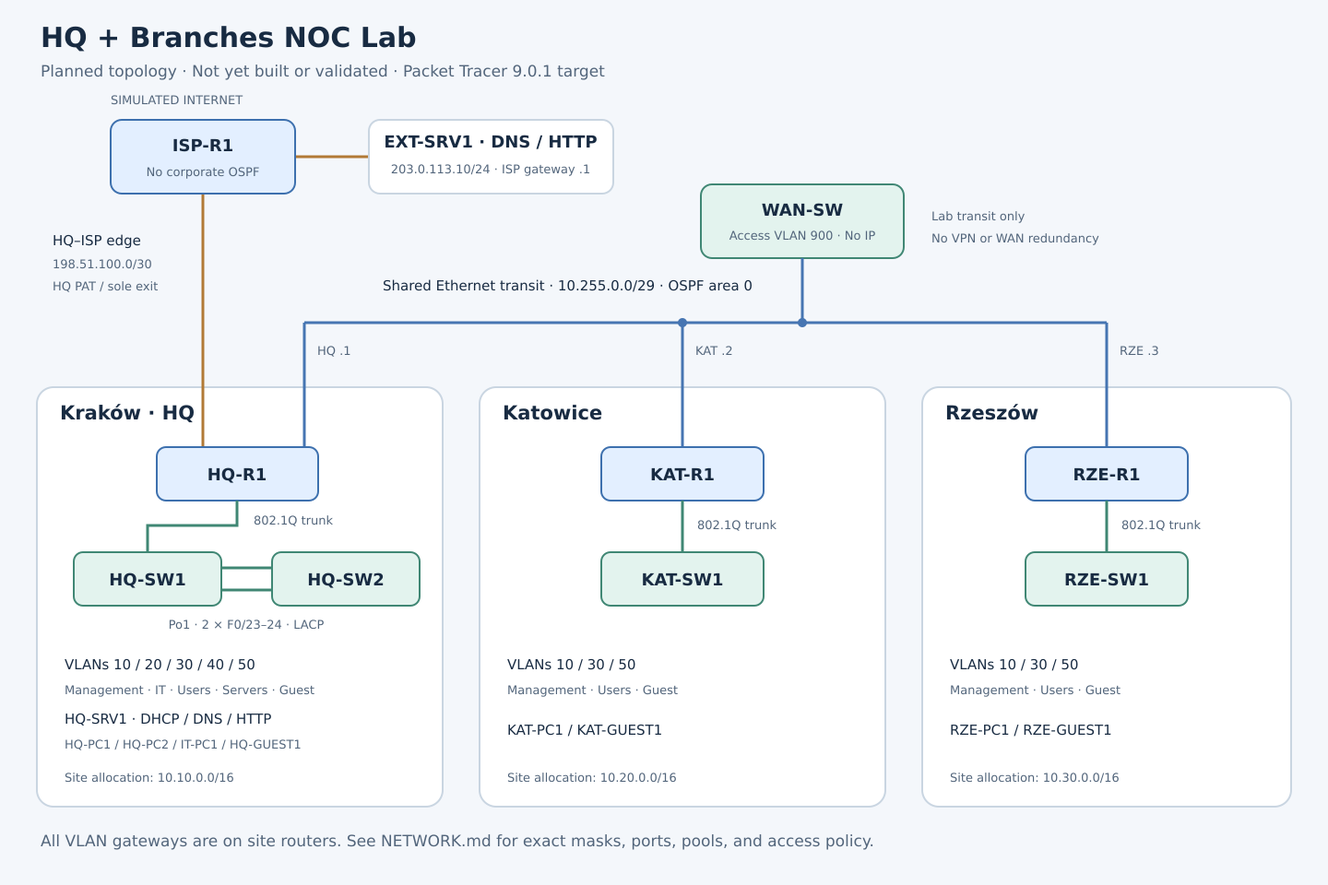
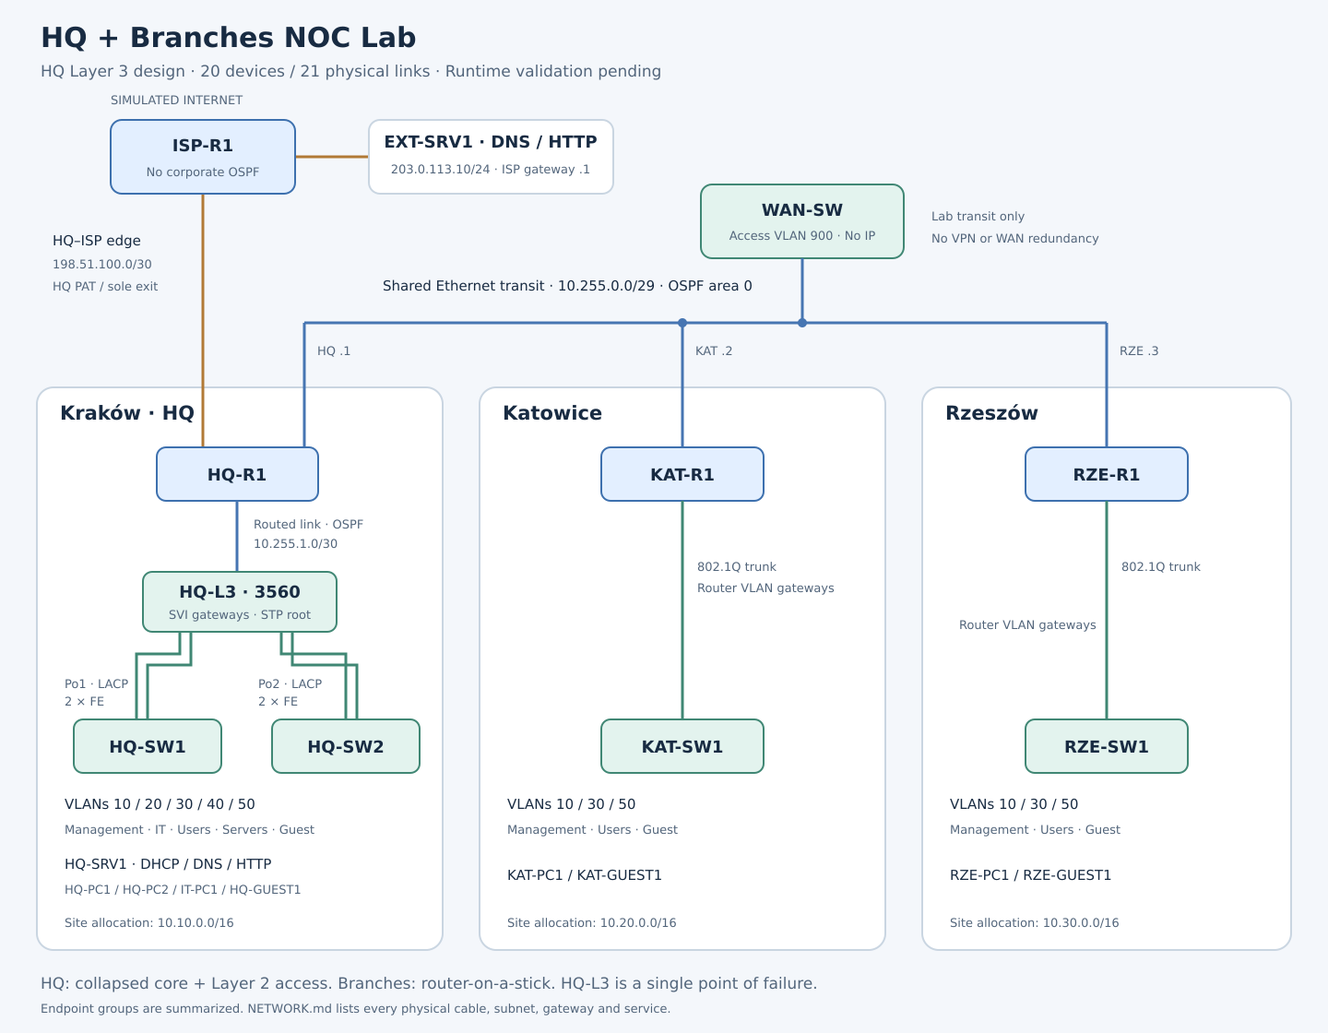
Design HQ Layer 3 collapsed core and revise validation

diff --git a/docs/NETWORK.md b/docs/NETWORK.md
@@ -1,14 +1,16 @@
 # Network build sheet
 
-**State:** working design, not implemented or tested. This is the active source for topology, addressing, and traffic intent. Target device models and port labels require confirmation in Packet Tracer 9.0.1 before configuration.
+**State:** accepted HQ Layer 3 revision; assembly and runtime validation pending. This is the active source for topology, addressing, and traffic intent. HQ-L3 model, ports, and command support require confirmation in Packet Tracer 9.0.1; earlier access-layout screenshots do not validate this revision.
 
 ## Design in brief
 
 Kraków HQ supports 44 staff and hosts IT and shared services; Katowice supports 16 staff and Rzeszów 12. Use representative PCs instead of modelling every employee. Segment by trust and function: Management, IT, Users, Servers, and Guest at HQ; Management, Users, and Guest at each branch.
 
-Each site router provides VLAN gateways through one 802.1Q trunk (router-on-a-stick). Three routers share an Ethernet transit subnet for OSPF area 0. `WAN-SW` represents the lab transit medium, not a managed corporate access switch or a real carrier/VPN. HQ provides the sole Internet exit. This avoids WAN modules and keeps the build uniform.
+HQ uses a two-tier collapsed core: `HQ-L3` combines distribution/core functions and supplies VLAN gateways through switch virtual interfaces (SVIs). `HQ-SW1` and `HQ-SW2` provide Layer 2 access. `HQ-R1` connects to HQ-L3 over a routed Ethernet link and handles WAN routing and NAT/PAT. At each branch, the router still provides VLAN gateways through one 802.1Q trunk (router-on-a-stick). [Cisco campus design guide](https://www.cisco.com/c/en/us/td/docs/solutions/CVD/Campus/cisco-campus-lan-wlan-design-guide.html)
 
-Two HQ switches use one two-member LACP EtherChannel. Make `HQ-SW1` the STP root and `HQ-SW2` secondary for HQ VLANs. Test loss of one member link; do not claim switch, router, or WAN failover. DHCP snooping, DAI, and further Layer 2 protections are optional follow-ups after the core baseline and simulator support checks.
+The three site routers retain their shared Ethernet transit for OSPF area 0. `WAN-SW` is an abstraction of Layer 2 transport between sites; only router transit ports share VLAN 900. Corporate client VLANs remain local to each site. No provider core, MPLS, VPN, or WAN redundancy is implemented. HQ-R1 remains the sole simulated Internet exit.
+
+Each HQ access switch has its own two-member LACP trunk to HQ-L3: Po1 serves HQ-SW1 and Po2 serves HQ-SW2. There is no direct HQ-SW1–HQ-SW2 cable. Make HQ-L3 the STP root and HQ-SW1 secondary for HQ VLANs. Test loss of one member in each bundle. One HQ-L3 is a single point of failure; a secondary STP root does not provide a backup VLAN gateway. The FastEthernet bundles are chosen for simulator practice, with no throughput claim. Additional Layer 2 protections remain optional after the core baseline.
 
 ![Planned topology, not validation evidence](topology.png)
 
@@ -16,22 +18,26 @@ Two HQ switches use one two-member LACP EtherChannel. Make `HQ-SW1` the STP root
 
 | Names | Target model | Role |
 |---|---|---|
-| `HQ-R1`, `KAT-R1`, `RZE-R1` | 2911 | Site gateways and OSPF; HQ also runs NAT/PAT |
+| `HQ-L3` | 3560-24PS | HQ collapsed core, SVI gateways, DHCP relay, inter-VLAN ACLs and OSPF |
+| `HQ-R1` | 2911 | HQ WAN/Internet edge, OSPF and NAT/PAT |
+| `KAT-R1`, `RZE-R1` | 2911 | Branch VLAN gateways, DHCP relay, ACLs and OSPF |
 | `ISP-R1` | 2911 | Simulated ISP, outside corporate OSPF |
 | `HQ-SW1`, `HQ-SW2`, `KAT-SW1`, `RZE-SW1` | 2960-24TT | Corporate Layer 2 access switches |
 | `WAN-SW` | 2960-24TT | Shared transit, access VLAN 900, no management IP |
 | `HQ-SRV1`, `EXT-SRV1` | Server-PT | Internal DHCP/DNS/HTTP; external DNS/HTTP respectively |
 | `HQ-PC1`, `HQ-PC2`, `IT-PC1`, `HQ-GUEST1`, `KAT-PC1`, `KAT-GUEST1`, `RZE-PC1`, `RZE-GUEST1` | PC-PT | Eight representative clients |
 
-Total: **19 devices**. Cisco documents three onboard GE ports on the physical 2911; this supports the model choice but does not verify Packet Tracer behavior. [Cisco hardware guide](https://www.cisco.com/c/en/us/td/docs/routers/access/2900/hardware/installation/guide/Hardware_Installation_Guide/Overview.html)
+Total: **20 devices and 21 physical links**. Logical port-channels do not add physical links. Packet Tracer lists 3560-24PS as a multilayer switch; check `G0/1`, `F0/1–4`, IP routing, SVIs, OSPF, relay, ACL and LACP commands on the installed model before configuration. This documentation check is not a simulator test. [Packet Tracer switch guide](https://tutorials.ptnetacad.net/help/default/config_switches.htm)
 
 | Device / port | Peer / port | Cable | Intended use |
 |---|---|---|---|
-| HQ-R1 G0/0 | HQ-SW1 G0/1 | Copper Straight-Through | HQ VLAN trunk |
+| HQ-R1 G0/0 | HQ-L3 G0/1 | Copper Straight-Through | Routed /30 link; no VLAN trunk |
 | KAT-R1 G0/0 | KAT-SW1 G0/1 | Copper Straight-Through | Katowice VLAN trunk |
 | RZE-R1 G0/0 | RZE-SW1 G0/1 | Copper Straight-Through | Rzeszów VLAN trunk |
-| HQ-SW1 F0/23 | HQ-SW2 F0/23 | Copper Cross-Over | Port-channel 1 member |
-| HQ-SW1 F0/24 | HQ-SW2 F0/24 | Copper Cross-Over | Port-channel 1 member |
+| HQ-L3 F0/1 | HQ-SW1 F0/23 | Copper Cross-Over | Po1 member 1 |
+| HQ-L3 F0/2 | HQ-SW1 F0/24 | Copper Cross-Over | Po1 member 2 |
+| HQ-L3 F0/3 | HQ-SW2 F0/23 | Copper Cross-Over | Po2 member 1 |
+| HQ-L3 F0/4 | HQ-SW2 F0/24 | Copper Cross-Over | Po2 member 2 |
 | HQ-R1 G0/1 | WAN-SW F0/1 | Copper Straight-Through | OSPF transit, access VLAN 900 |
 | KAT-R1 G0/1 | WAN-SW F0/2 | Copper Straight-Through | OSPF transit, access VLAN 900 |
 | RZE-R1 G0/1 | WAN-SW F0/3 | Copper Straight-Through | OSPF transit, access VLAN 900 |
@@ -54,11 +60,11 @@ Select the cable type manually under Connections, then choose the exact ports in
 
 ## VLANs and addressing
 
-VLAN IDs repeat across sites; their IP subnets do not. Corporate site prefixes are `10.10.0.0/16` (HQ), `10.20.0.0/16` (KAT), and `10.30.0.0/16` (RZE). These are allocation containers, not interface masks or required OSPF summaries. VLAN gateway `.1` resides on router subinterface `G0/0.<VLAN>`.
+VLAN IDs repeat across sites; their IP subnets do not. Corporate site prefixes are `10.10.0.0/16` (HQ), `10.20.0.0/16` (KAT), and `10.30.0.0/16` (RZE). These are allocation containers, not interface masks or required OSPF summaries. HQ gateway `.1` resides on `HQ-L3 interface Vlan<VLAN>`; branch gateway `.1` resides on router subinterface `G0/0.<VLAN>`. Client addresses, masks, gateway addresses and DHCP pools remain unchanged by the HQ revision.
 
 | Site | VLAN / name | Subnet | Gateway | Assignment |
 |---|---|---|---|---|
-| HQ | 10 MGMT | 10.10.10.0/28 | 10.10.10.1 | SW1 .2; SW2 .3, static management SVIs |
+| HQ | 10 MGMT | 10.10.10.0/28 | 10.10.10.1 | HQ-L3 .1; SW1 .2; SW2 .3, static SVIs |
 | HQ | 20 IT | 10.10.20.0/28 | 10.10.20.1 | IT-PC1 .10, static |
 | HQ | 30 USERS | 10.10.30.0/26 | 10.10.30.1 | DHCP .10–.62: 53 leases |
 | HQ | 40 SERVERS | 10.10.40.0/28 | 10.10.40.1 | HQ-SRV1 .10, static |
@@ -70,11 +76,12 @@ VLAN IDs repeat across sites; their IP subnets do not. Corporate site prefixes a
 | RZE | 30 USERS | 10.30.30.0/27 | 10.30.30.1 | DHCP .10–.30: 21 leases |
 | RZE | 50 GUEST | 10.30.50.0/28 | 10.30.50.1 | DHCP .2–.14: 13 leases |
 
-Use VLAN 999 as an unused native/parking VLAN with no IP interface or clients. HQ trunks allow 10,20,30,40,50,999; branch trunks allow 10,30,50,999. Match native VLAN 999 at both ends, including router trunks. Shut unused access ports. Management means device administration, not company leadership.
+Use VLAN 999 as an unused native/parking VLAN with no IP interface or clients. HQ Po1 and Po2 allow 10,20,30,40,50,999; branch trunks allow 10,30,50,999. Match native VLAN 999 at both ends, including branch router trunks. Configure LACP `mode active` and consistent trunk settings on each bundle and its members; use group 1 at both Po1 ends and group 2 at both Po2 ends. Check the 3560 trunk-encapsulation syntax with CLI help before forcing trunk mode. Shut unused access ports, including the now-unused HQ-SW1 G0/1. Management means device administration, not company leadership.
 
 | Network | Subnet | Addresses |
 |---|---|---|
 | Shared OSPF transit | 10.255.0.0/29 | HQ G0/1 .1; KAT G0/1 .2; RZE G0/1 .3 |
+| HQ core–edge | 10.255.1.0/30 | HQ-R1 G0/0 .1; HQ-L3 G0/1 .2 |
 | HQ–ISP | 198.51.100.0/30 | ISP G0/0 .1; HQ G0/2 .2 |
 | External services | 203.0.113.0/24 | ISP G0/1 .1; EXT-SRV1 .10, gateway .1 |
 
@@ -82,16 +89,25 @@ The two external ranges are documentation addresses used only inside the simulat
 
 ## Routing and services
 
-- OSPF process 1, area 0; explicit router IDs `10.255.255.1` (HQ), `.2` (KAT), `.3` (RZE). These are identifiers, not assigned interface addresses. Advertise the listed corporate VLAN networks and transit subnet. Make all interfaces passive except G0/1. Keep ISP and external networks outside corporate OSPF.
-- HQ has a default route via `198.51.100.1` and originates that default into OSPF while it exists. Branch Internet traffic then exits HQ. The shared transit permits direct branch-to-branch routing; access policy still applies at each site.
-- HQ PAT overloads G0/2. G0/1 and the routed HQ client VLAN interfaces are inside-facing. A NAT source list selects addresses for translation; it does not replace traffic-filtering ACLs. Do not publish internal services with static translations.
-- HQ-SRV1 supplies six DHCP pools from the table: three Users and three Guest pools. Configure pool start, mask, gateway, DNS, and lease count. Relay those six VLANs to `10.10.40.10`; Management, IT, and Servers use static addresses.
+- Enable `ip routing` on HQ-L3. Its G0/1 is a routed port (`no switchport`), addressed `10.255.1.2/30`; HQ-R1 G0/0 is `10.255.1.1/30`, with no VLAN subinterfaces. HQ-L3 supplies SVIs 10,20,30,40,50. An SVI needs its VLAN and an active forwarding member/trunk to become operational. [Cisco 3560 routing guide](https://www.cisco.com/c/en/us/td/docs/switches/lan/catalyst3560/software/release/15-0_1_se/configuration/guide/scg3560/swiprout.html)
+- OSPF process 1, area 0 runs on four devices. Router IDs are `10.255.255.1` (HQ-R1), `.2` (KAT-R1), `.3` (RZE-R1), and `.4` (HQ-L3); these are identifiers, not assigned interface addresses. HQ-L3 advertises HQ VLAN networks and the core–edge /30; HQ-R1 advertises the /30 and shared /29; each branch advertises its local VLANs and the /29. Use passive interfaces by default, with only the adjacencies listed below enabled. Keep ISP-R1 and the external networks outside corporate OSPF.
+- Use OSPF point-to-point network type on both ends of the HQ core–edge /30 after confirming command support. The shared /29 retains broadcast network type and DR/BDR election.
+- HQ-R1 has a default route via `198.51.100.1` and originates that default into OSPF while it exists. HQ-L3 and both branches learn it. HQ-R1 must learn all HQ VLAN routes back through HQ-L3. The shared transit still permits direct branch-to-branch routing; access policy applies at each site's routing boundary.
+- HQ-R1 PAT overloads G0/2 (outside); G0/0 toward HQ-L3 and G0/1 toward WAN-SW are inside. HQ-L3 performs no NAT. A NAT source list selects corporate client source prefixes for translation; it does not replace traffic-filtering ACLs. Do not publish internal services with static translations.
+- HQ-SRV1 supplies the same six DHCP pools: three Users and three Guest pools. Relay to `10.10.40.10` from HQ-L3 SVIs 30/50 and from branch router subinterfaces G0/0.30/G0/0.50. HQ-R1 has no client DHCP relay role. Management, IT, and Servers remain static.
 - Corporate clients use DNS `10.10.40.10`. Guests use external DNS `203.0.113.10`. Internal DNS has `intranet.lab.example → 10.10.40.10` and `www.lab.example → 203.0.113.10`; external DNS has only the latter. Serve HTTP on both servers. Use the same corporate DNS for IT-PC1.
-- Manage corporate routers through their VLAN 10 address and corporate switches through their management SVI; allow SSH from HQ IT only. ISP-R1 and WAN-SW are simulation infrastructure with no corporate remote-management requirement.
+- Manage HQ-L3 at `10.10.10.1`, HQ-SW1/SW2 at `.2`/`.3`, and HQ-R1 at `10.255.1.1`. Branch router/switch management stays at `10.20.10.1/.2` and `10.30.10.1/.2`. Apply TP-04 and TP-09 to all eight management targets, explicitly including HQ-R1's transit address. Restrict corporate device SSH to HQ IT. ISP-R1 and WAN-SW remain simulation infrastructure without corporate remote-management requirements.
+
+| OSPF device | Non-passive interfaces | Expected FULL neighbors |
+|---|---|---|
+| HQ-L3 | G0/1 | HQ-R1 (1) |
+| HQ-R1 | G0/0, G0/1 | HQ-L3, KAT-R1, RZE-R1 (3) |
+| KAT-R1 | G0/1 | HQ-R1, RZE-R1 (2) |
+| RZE-R1 | G0/1 | HQ-R1, KAT-R1 (2) |
 
 ## Traffic policy
 
-The existing TP identifiers are retained. Entries are requirements, not successful tests. Use DNS (UDP/TCP 53), HTTP (TCP 80), SSH (TCP 22), and ICMP as specified; confirm simulator behavior before writing final ACLs.
+The existing TP identifiers are retained. Entries are requirements, not successful tests. Use DNS (UDP/TCP 53), HTTP (TCP 80), SSH (TCP 22), and ICMP as specified; confirm simulator behavior before writing final ACLs. Enforce HQ inter-VLAN policy on HQ-L3 SVIs and branch policy on branch router subinterfaces; apply Internet-edge filtering on HQ-R1. In particular, HQ Users-to-Servers traffic is routed entirely on HQ-L3, so an ACL on HQ-R1 cannot enforce TP-01.
 
 | Rule | Source → destination | Required behavior |
 |---|---|---|
@@ -113,10 +129,10 @@ Permit the specific DHCP relay exchanges, OSPF control traffic, and replies need
 
 ## First Packet Tracer checkpoint
 
-1. Open Cisco Packet Tracer 9.0.1. Confirm 2911 and 2960-24TT availability and the port labels above; record differences here before using a substitute.
-2. Start with **HQ only: eight devices** — HQ-R1, HQ-SW1, HQ-SW2, HQ-SRV1, HQ-PC1, HQ-PC2, IT-PC1, and HQ-GUEST1. Set these display names and cable the eight HQ-only links from the tables. Display names identify devices on the canvas; IOS hostnames will be configured in Block 2.
-3. Save this partial build as `packet-tracer/HQ-Branches-NOC-Lab_working.pkt`, reopen it, and capture `docs/evidence/working_hq_topology.png` with readable names and ports. This is an interim layout review, not a completed B1 test. Use a new working filename if a previous working copy needs preserving.
-4. Add the two branches, WAN-SW, ISP-R1, and EXT-SRV1 using the same tables. The complete layout must have **19 devices and 19 links**, grouped as HQ, Katowice, Rzeszów, Transit, and Simulated Internet. Use English labels.
-5. In a fresh unconfigured topology, router ports may be administratively down and one parallel switch link may be STP-blocked; this is not yet a connectivity test. Record unexpected observations instead of changing the planned ports to make the indicators green.
-6. Save the complete layout as `packet-tracer/checkpoints/HQ-Branches-NOC-Lab_v01_physical-topology.pkt`. Close and reopen that exact file; check device names, ports, and both EtherChannel candidate links.
-7. Record **B1** in [Validation](VALIDATION.md) with the checkpoint name and an actual Packet Tracer screenshot. Then begin VLAN/trunk configuration. For each subsequent milestone, configure, test, save a new checkpoint, and export the matching device configurations.
+1. Save any current Packet Tracer session, then use **Save As** to create `packet-tracer/HQ-Branches-NOC-Lab_working_l3.pkt`. Preserve the earlier working file. Confirm 2911, 2960-24TT and 3560-24PS availability and exact port labels before substituting models.
+2. For an existing HQ layout, add **3560-24PS** as `HQ-L3`. Remove the old HQ-R1 G0/0–HQ-SW1 G0/1 cable and both direct HQ-SW1–HQ-SW2 cables. Build the five HQ infrastructure links in the table: one routed-link candidate to HQ-R1 and two pairs to the access switches. Keep the five endpoint cables. HQ now has **nine devices and ten links**; no direct access-switch link remains.
+3. Before configuring services, record `show version` and `show ip interface brief` on HQ-L3, plus a readable screenshot. Confirm the routing, SVI, routed-port, OSPF, relay, ACL and LACP command support in CLI help; parser support alone is not a successful feature test. Save the working file, reopen it, and retain `docs/evidence/working_hq_l3_topology.png` for an interim review. Use a new evidence name for later captures.
+4. Complete the branches, WAN-SW, ISP-R1 and EXT-SRV1 from the tables. The full layout has **20 devices and 21 links**, grouped as HQ, Katowice, Rzeszów, Transit and Simulated Internet. Existing branch and external links do not change. Display names identify devices on the canvas; configure IOS hostnames in Block 2.
+5. Before LACP configuration, STP may block one link in each HQ pair. Router interfaces may be administratively down. Record observations and any `no shutdown` changes; green indicators do not validate routing or EtherChannel.
+6. Save startup configurations on changed devices, then save the full layout as `packet-tracer/checkpoints/HQ-Branches-NOC-Lab_v01_physical-topology.pkt`. If v01 already exists, preserve it and use the next unused number with an HQ-L3 description. Close and reopen the exact new file; check all devices, ports and four LACP candidate links.
+7. Record **B1** in [Validation](VALIDATION.md) with the checkpoint name and actual screenshots. Then configure HQ VLANs/SVIs, both LACP trunks and the routed core–edge link; retain router-on-a-stick at the branches. For each subsequent milestone, configure, test, save a new checkpoint, and export the matching device configurations.

diff --git a/docs/VALIDATION.md b/docs/VALIDATION.md
@@ -6,20 +6,22 @@
 
 | ID | Check and method | Expected result | Actual / evidence |
 |---|---|---|---|
-| B1 | Open, save, and reopen v01; inspect devices and cables | 19 named devices, 19 links; actual models/ports match the build sheet | Not run / — |
-| B2 | `show vlan brief`, `show interfaces trunk`, gateway tests with temporary static client IPs | Correct access VLANs, allowed/native VLANs, and local gateways | Not run / — |
-| B3 | `show spanning-tree`, `show etherchannel summary`; disable one Po1 member, test HQ-PC2 → HQ gateway, then restore | HQ-SW1 root; two bundled members; gateway access survives a single member failure and restoration | Not run / — |
+| B1 | Save/reopen the first complete HQ-L3 checkpoint; inspect devices, ports and model support | 20 named devices, 21 physical links; HQ-L3 is 3560-24PS; four LACP candidate links and no direct HQ-SW1–HQ-SW2 link; exact model/port differences recorded | Not run / — |
+| B2 | `show vlan brief`, `show interfaces trunk`, `show ip interface brief`, `show ip route`; gateway and core–edge tests | HQ gateways on HQ-L3 SVIs; branch gateways on router subinterfaces; correct allowed/native VLANs; HQ-L3 G0/1 and HQ-R1 G0/0 use the /30 as routed interfaces, not a trunk | Not run / — |
+| B3 | `show spanning-tree`, `show etherchannel summary`; independently disable/restore one Po1 member and one Po2 member | HQ-L3 root; two bundled members per channel; HQ-PC1 → 10.10.30.1 survives Po1 member loss, HQ-PC2 → 10.10.30.1 survives Po2 member loss; both bundles fully restored | Not run / — |
 | B4 | SSH from IT-PC1 to every corporate management IP | Successful SSH after routed reachability exists; Telnet disabled | Not run / — |
-| B5 | `show ip ospf neighbor`, `show ip route`; test HQ/branch paths | Three routers share transit; each has two FULL neighbors, remote VLAN routes, branches have HQ-originated default | Not run / — |
-| B6 | Renew every DHCP client and inspect address, mask, gateway, DNS | Leases fit the six pools; corporate and guest DNS settings differ correctly | Not run / — |
+| B5 | `show ip ospf neighbor`, `show ip ospf interface`, `show ip route`; test HQ/branch paths | HQ-R1 has 3 FULL neighbors, HQ-L3 has 1, each branch has 2; /29 broadcast and /30 point-to-point types match design; HQ-R1 learns HQ VLAN routes through HQ-L3; HQ-L3 and branches learn the HQ-R1-originated default | Not run / — |
+| B6 | Renew every DHCP client; inspect address/mask/gateway/DNS and relay placement | Six pools work; HQ relay on HQ-L3 SVIs 30/50 and branch relay on G0/0.30/.50; no client relay on HQ-R1; corporate/guest DNS settings match design | Not run / — |
 | B7 | Resolve and browse internal/external names from applicable clients | Corporate clients reach intranet and external web; guests resolve external web through external DNS | Not run / — |
-| B8 | Generate external HTTP/ICMP; `show ip nat translations`, `show ip nat statistics` | HQ and both branch client sources translate to 198.51.100.2 | Not run / — |
+| B8 | Generate external HTTP/ICMP; inspect HQ-R1 `show ip nat translations`, `show ip nat statistics` and return routes | HQ traffic through HQ-L3 and both branches translate to 198.51.100.2; HQ-R1 G0/0 and G0/1 inside, G0/2 outside; no NAT on HQ-L3 | Not run / — |
 | B9 | Test TP-01–TP-13 using the coverage table below | All required permits and denies have evidence and an explained cause | Not run / — |
 | B10 | Save device startup configs and checkpoint; close/reopen; export configs; repeat service and policy checks | Reloaded file retains configuration and services; exports match that exact checkpoint | Not run / — |
 
 Run relevant checks immediately after each configuration slice. B4 needs routed connectivity for branch management and is completed when that path exists. B5 may have a transient DR election period; record the settled neighbor state. Command support must be checked on the actual model; record a supported alternative if needed.
 
-The HQ-only working file is an interim layout review. Its eight devices and eight links are only part of B1; B1 remains not run until the complete 19-device/19-link v01 file is checked and reopened.
+The revised HQ-only layout has nine devices and ten links. Interim screenshots of the earlier access layout do not validate the HQ-L3 revision. B1 remains not run until the complete 20-device/21-link checkpoint is checked and reopened; preserve an existing checkpoint and use the next unused number when necessary.
+
+On HQ-L3, capture version/port information and confirm CLI support for `ip routing`, `interface vlan`, `no switchport`, `router ospf`, `ip ospf network point-to-point`, `ip helper-address`, ACLs and LACP before configuration. Use CLI help to check trunk-encapsulation syntax. Command acceptance is only a support check; B2–B9 establish behavior. For B3, capture baseline, single-member failure and recovery separately for each bundle; this tests member-link resilience, not core-switch or gateway failover.
 
 ## Policy coverage
 
@@ -28,14 +30,16 @@ Use the individual TP IDs in result entries even where the table groups their se
 | Rules | Representative check |
 |---|---|
 | TP-01, TP-02 | HQ-PC1, KAT-PC1, RZE-PC1: internal DNS and HTTP work; unlisted server access is denied |
-| TP-03, TP-04, TP-05 | IT-PC1: DNS/HTTP/ICMP to HQ-SRV1; SSH/ICMP to all seven corporate network devices; ICMP to corporate user PCs |
+| TP-03, TP-04, TP-05 | IT-PC1: DNS/HTTP/ICMP to HQ-SRV1; SSH/ICMP to all eight corporate network devices, including HQ-L3 at 10.10.10.1 and HQ-R1 at 10.255.1.1; ICMP to corporate user PCs |
 | TP-06 | Each corporate user site: external HTTP and ICMP work through PAT |
 | TP-07, TP-08 | Each guest: DHCP and external DNS/HTTP/ICMP work; tests to internal server, user, IT, and management zones are denied |
-| TP-09, TP-10, TP-11 | Corporate users: management access, new access to IT, and cross-zone user access are denied; replies to permitted IT diagnostics still work |
+| TP-09, TP-10, TP-11 | Corporate users: management access (including HQ-R1 at 10.255.1.1), new access to IT, and cross-zone user access are denied; replies to permitted IT diagnostics still work |
 | TP-12 | External source: no internal service publication; record edge ACL/NAT state and the actual attempted inbound path |
 | TP-13 | Pick an unlisted routed pair, such as IT → Guest; show intended denial |
 
 A failed ping alone does not establish ACL enforcement. Check the service, routing, and return path, then collect ACL counters if supported or Packet Tracer Simulation Mode evidence. A timeout caused by a missing route or a disabled service is not an ACL pass. For TP-12, distinguish lack of a NAT mapping from an explicit ACL drop; use a separate verification copy if a temporary route is needed to isolate ACL behavior.
+
+For HQ inter-VLAN cases, collect the relevant SVI ACL evidence on HQ-L3; HQ Users-to-Servers traffic does not traverse HQ-R1. For branch-originated policy collect branch router evidence, and for Internet-edge behavior collect HQ-R1 evidence. Verify DHCP and permitted reply traffic after applying ACLs.
 
 ## Recording results
 

diff --git a/README.md b/README.md
@@ -2,11 +2,11 @@
 
 Cisco Packet Tracer lab connecting a headquarters in Kraków with branches in Katowice and Rzeszów. Built around network configuration, verification, and incident troubleshooting.
 
-**Status:** topology and addressing documented; Packet Tracer assembly and validation pending. No `.pkt` checkpoint or configuration exports yet.
+**Status:** HQ Layer 3 design documented; assembly in progress. No validated checkpoint or configuration exports yet.
 
 ![Planned topology — not yet built or validated](docs/topology.png)
 
-**Planned scope:** VLANs, trunks, STP, EtherChannel, inter-VLAN routing, OSPF, DHCP/DNS, NAT/PAT, SSH, and ACLs. Internet access is simulated inside the lab.
+**Planned scope:** HQ collapsed core with SVI gateways, branch router-on-a-stick, VLANs, STP, LACP, OSPF, DHCP/DNS, NAT/PAT, SSH, and ACLs. Internet access is simulated inside the lab.
 
 ## Project files
 

diff --git a/configs/README.md b/configs/README.md
@@ -2,7 +2,7 @@
 
 **Status:** no configurations exported yet.
 
-Store one complete configuration per network device as `<hostname>.cfg`: HQ-R1, KAT-R1, RZE-R1, ISP-R1, HQ-SW1, HQ-SW2, KAT-SW1, RZE-SW1, and WAN-SW.
+Store one complete configuration per network device as `<hostname>.cfg`: HQ-L3, HQ-R1, KAT-R1, RZE-R1, ISP-R1, HQ-SW1, HQ-SW2, KAT-SW1, RZE-SW1, and WAN-SW (ten devices).
 
 ## Save and export a device
 
